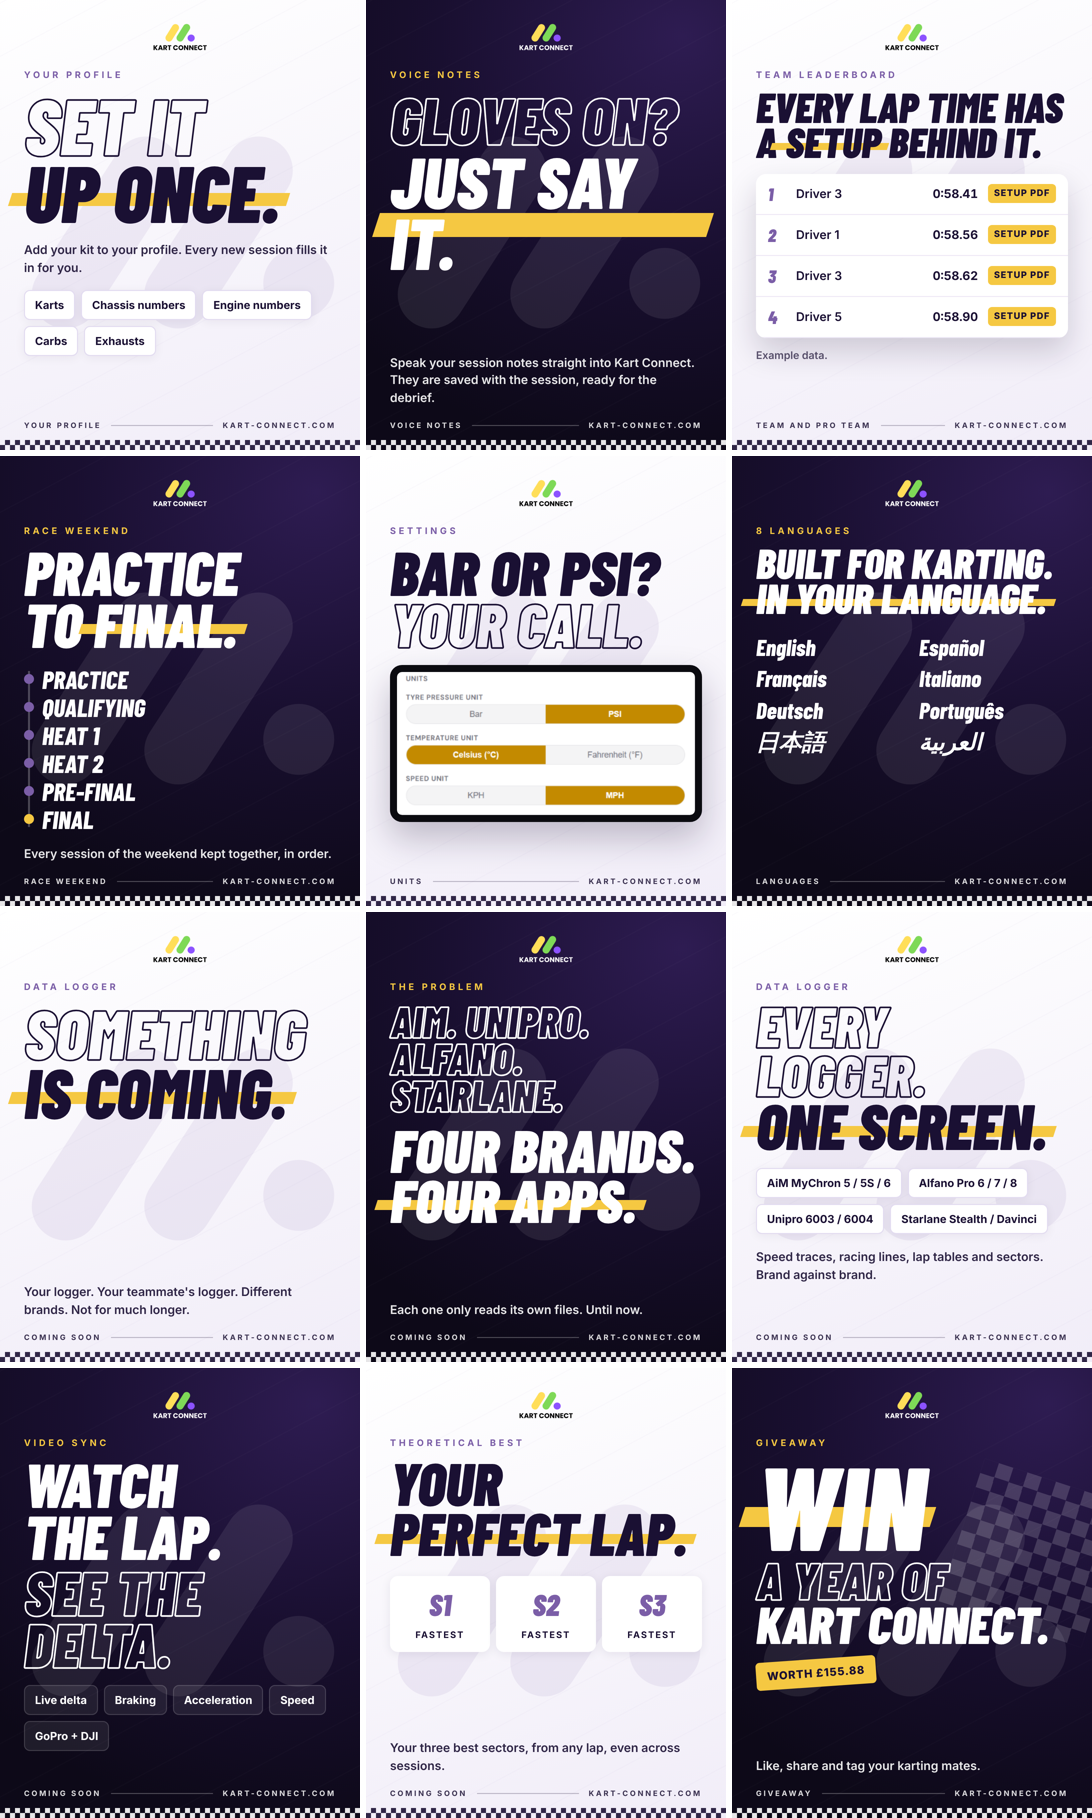
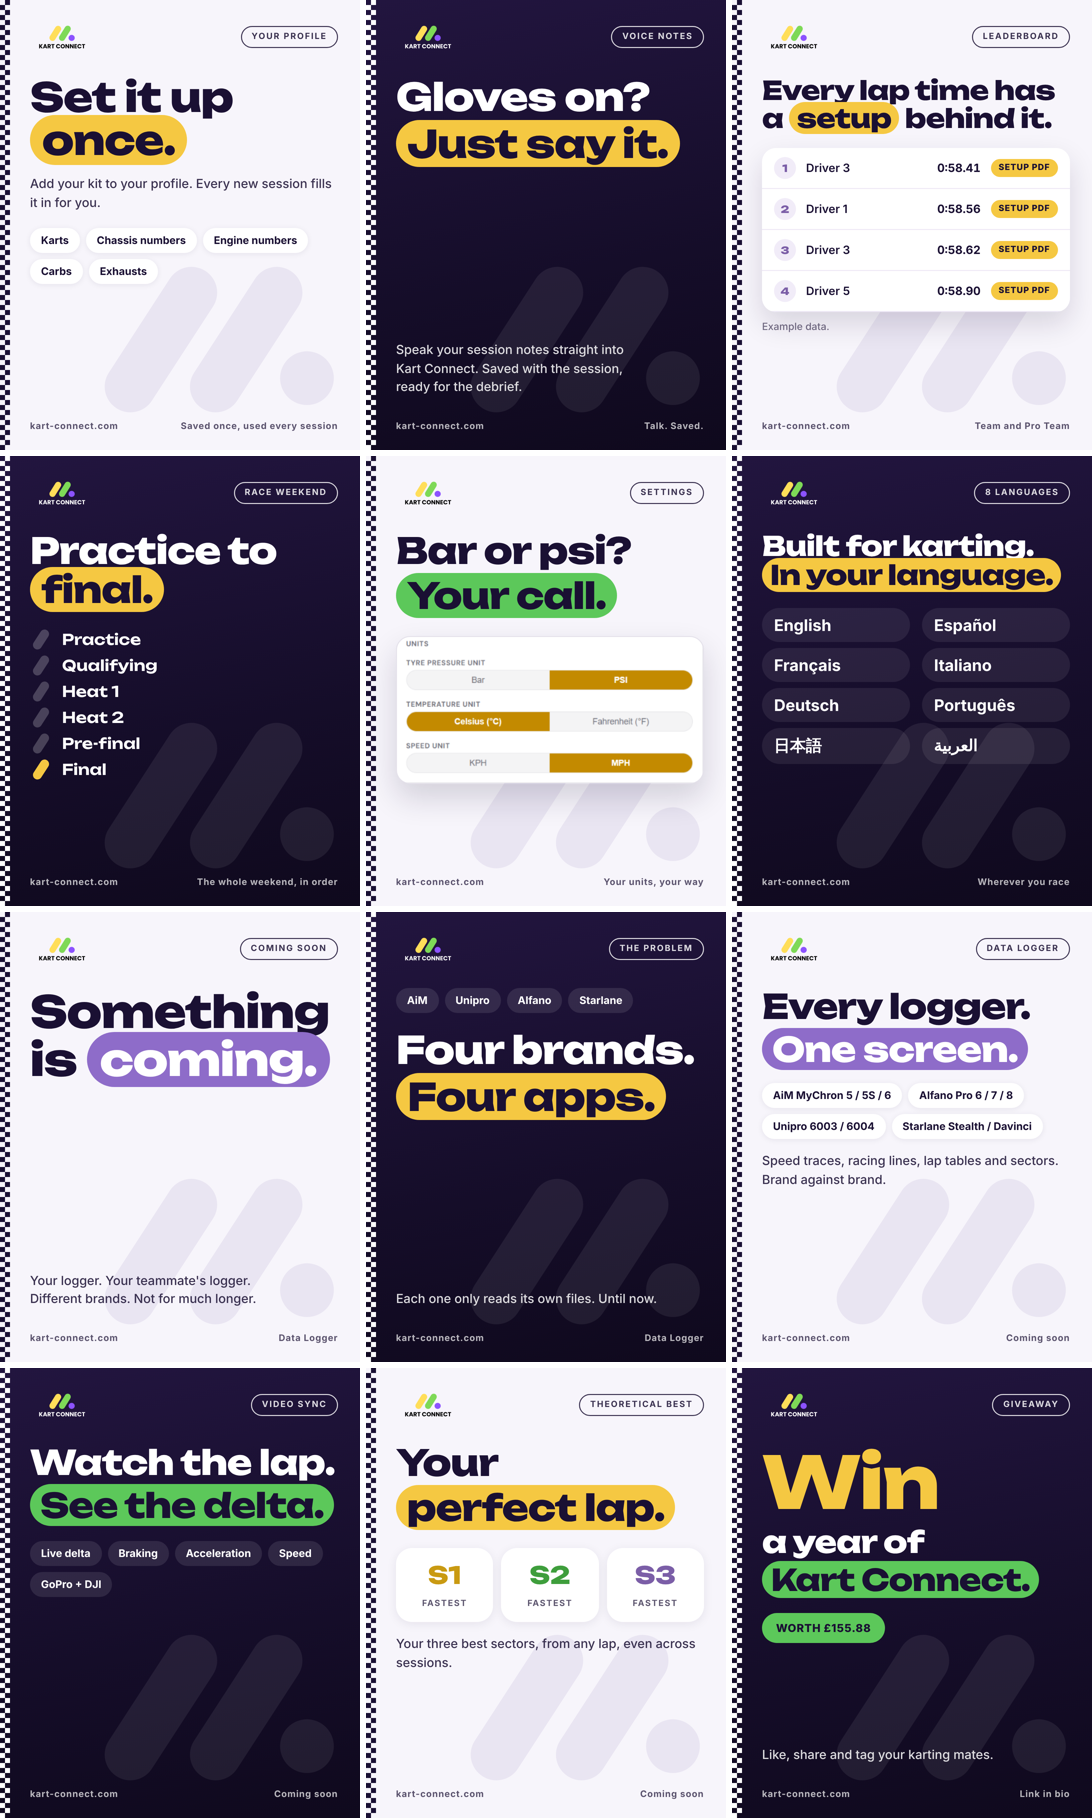
Redesign queued posts in Kart Connect's own style, distinct from the reference account
Claude-Session: https://claude.ai/code/session_01DzacDsEsqVP5UHhCT4aK5m

Changed region(s): [[0.0, 0.0, 1.0, 1.0], [0.2179, 0.0, 0.2802, 0.0308], [0.2491, 0.9241, 0.2802, 0.9549]]

diff --git a/marketing/social/concepts/pit-board/gen3.py b/marketing/social/concepts/pit-board/gen3.py
@@ -1,0 +1,134 @@
+"""Kart Connect's own single-image style ("Pill Lane"), replacing the Motorsport-Connector-like look.
+Kept from the owner's brief: faded full logo mark, chequered flag motif, dark/light alternation, punchy headlines.
+Changed: wide upright Unbounded type (not condensed italic), pill-shaped highlights taken from the logo's
+rounded stripes (not a stripe behind the word), logo top-left with a pill tag (not centred), mark bottom-right,
+no outline/solid word pairs. Writes queue3.html, one <section class="s"> per post."""
+import json, os
+HERE = os.path.dirname(os.path.abspath(__file__))
+
+MARK = ('<svg class="wm" viewBox="140 10 214 128" aria-hidden="true"><g fill="currentColor">'
+        '<rect x="-70" y="-22" width="140" height="44" rx="22" transform="translate(199,73) rotate(-57)"/>'
+        '<rect x="-70" y="-22" width="140" height="44" rx="22" transform="translate(272,73) rotate(-57)"/>'
+        '<circle cx="324" cy="106" r="23"/></g></svg>')
+
+CSS = r'''
+@font-face{font-family:'Unbounded';font-style:normal;font-weight:200 900;src:url('fonts/Unbounded-800.woff2') format('woff2');}
+* { box-sizing: border-box; margin: 0; padding: 0; }
+body { background: #bbb; padding: 20px; display: flex; flex-wrap: wrap; gap: 20px; font-family: 'Inter', Arial, sans-serif; }
+.s { width: 360px; height: 450px; position: relative; overflow: hidden; --y: #F5C842; --g: #5CC85A; --p: #8E6CC9; --ink: #1A1033; }
+.s.dark  { color: #fff; background: linear-gradient(170deg, #22153F 0%, #150D29 60%, #0F091D 100%); }
+.s.light { color: var(--ink); background: #F7F5FB; }
+.wm { position: absolute; width: 250px; right: 18px; bottom: 34px; opacity: .07; color: currentColor; }
+.s.light .wm { color: #7B5EA7; opacity: .1; }
+/* chequered flag: a slim strip down the left edge */
+.chk { position: absolute; top: 0; bottom: 0; left: 0; width: 10px;
+  background: repeating-conic-gradient(currentColor 0 25%, transparent 0 50%) 0 0 / 10px 10px; }
+.s.dark .chk { color: #fff; } .s.light .chk { color: var(--ink); }
+.bar { position: absolute; top: 24px; left: 30px; right: 22px; display: flex; justify-content: space-between; align-items: center; }
+.bar img { height: 26px; }
+.tag { font-size: 8.5px; font-weight: 700; letter-spacing: .14em; text-transform: uppercase; padding: 5px 10px; border-radius: 999px;
+       border: 1px solid currentColor; opacity: .85; }
+.in { position: absolute; top: 76px; left: 30px; right: 22px; bottom: 46px; display: flex; flex-direction: column; }
+.foot { position: absolute; left: 30px; right: 22px; bottom: 18px; display: flex; justify-content: space-between;
+        font-size: 9px; font-weight: 700; letter-spacing: .06em; opacity: .7; }
+.h { font-family: 'Unbounded', 'Inter', sans-serif; font-weight: 800; line-height: 1.08; letter-spacing: -.02em; }
+.cap { background: var(--y); color: #1A1033; border-radius: 999px; padding: 0 .3em; -webkit-box-decoration-break: clone; box-decoration-break: clone; }
+.cap.g { background: var(--g); } .cap.p { background: var(--p); color: #fff; }
+.sub { font-size: 12.5px; font-weight: 500; line-height: 1.5; opacity: .85; }
+.chips { display: flex; flex-wrap: wrap; gap: 6px; }
+.chip2 { font-size: 10.5px; font-weight: 700; padding: 6px 11px; border-radius: 999px; background: rgba(255,255,255,.1); }
+.s.light .chip2 { background: #fff; box-shadow: 0 1px 6px rgba(26,16,51,.08); }
+.shot { border-radius: 14px; overflow: hidden; border: 1px solid rgba(26,16,51,.08); box-shadow: 0 14px 30px rgba(26,16,51,.16); }
+.s.dark .shot { border-color: rgba(255,255,255,.12); box-shadow: 0 16px 34px rgba(0,0,0,.45); }
+.shot img { display: block; width: 100%; }
+.lb { border-radius: 14px; overflow: hidden; box-shadow: 0 12px 28px rgba(26,16,51,.14); }
+.lbr { display: flex; align-items: center; gap: 10px; padding: 9px 12px; font-size: 11.5px; font-weight: 600; background: #fff; color: #1A1033; border-bottom: 1px solid #EEE9F6; }
+.lbr .p { width: 22px; height: 22px; border-radius: 50%; background: #F1ECF8; display: flex; align-items: center; justify-content: center;
+          font-family: 'Unbounded'; font-weight: 800; font-size: 10px; color: #7B5EA7; }
+.lbr .t { margin-left: auto; font-variant-numeric: tabular-nums; font-weight: 700; }
+.lbr .pdf { font-size: 8.5px; font-weight: 800; letter-spacing: .06em; background: var(--y); padding: 4px 8px; border-radius: 999px; }
+.steps { display: flex; flex-direction: column; gap: 7px; }
+.steps div { display: flex; align-items: center; gap: 10px; font-family: 'Unbounded'; font-weight: 600; font-size: 15px; }
+.steps div::before { content: ""; width: 22px; height: 9px; border-radius: 999px; background: rgba(255,255,255,.22); transform: rotate(-57deg); }
+.steps div.f::before { background: var(--y); }
+.lang { display: grid; grid-template-columns: 1fr 1fr; gap: 6px 12px; }
+.lang div { font-weight: 700; font-size: 16px; padding: 7px 12px; border-radius: 999px; background: rgba(255,255,255,.08); }
+.sec { display: flex; gap: 8px; }
+.sec div { flex: 1; border-radius: 16px; padding: 12px 6px; text-align: center; background: #fff; box-shadow: 0 2px 10px rgba(26,16,51,.08); }
+.sec b { display: block; font-family: 'Unbounded'; font-weight: 800; font-size: 24px; }
+.sec div:nth-child(1) b { color: #C99A12; } .sec div:nth-child(2) b { color: #3E9E3C; } .sec div:nth-child(3) b { color: #7B5EA7; }
+.sec span { font-size: 8.5px; font-weight: 700; letter-spacing: .12em; text-transform: uppercase; opacity: .7; }
+.sticker { display: inline-block; background: var(--g); color: #1A1033; font-weight: 800; font-size: 11px; letter-spacing: .04em;
+           text-transform: uppercase; padding: 8px 14px; border-radius: 999px; }
+'''
+
+
+def tile(theme, tag, inner, foot):
+    logo = 'logo-white.png' if theme == 'dark' else 'logo.png'
+    return (f'<section class="s {theme}">{MARK}<div class="chk"></div>'
+            f'<div class="bar"><img src="{logo}" alt="Kart Connect"><span class="tag">{tag}</span></div>'
+            f'<div class="in">{inner}</div>'
+            f'<div class="foot"><span>kart-connect.com</span><span>{foot}</span></div></section>')
+
+
+Q = json.load(open(os.path.join(HERE, 'pack', 'queue.json')))
+cap = {p['slug']: p for p in Q}
+
+rows = ''.join(f'<div class="lbr"><span class="p">{i}</span><span>{n}</span><span class="t">{t}</span><span class="pdf">SETUP PDF</span></div>'
+               for i, n, t in [(1, 'Driver 3', '0:58.41'), (2, 'Driver 1', '0:58.56'), (3, 'Driver 3', '0:58.62'), (4, 'Driver 5', '0:58.90')])
+
+POSTS = [
+ ('profile-once', 'light', 'Your profile',
+  '<div class="h" style="font-size:40px;">Set it up <span class="cap">once.</span></div>'
+  '<p class="sub" style="margin-top:14px;">Add your kit to your profile. Every new session fills it in for you.</p>'
+  '<div class="chips" style="margin-top:14px;"><span class="chip2">Karts</span><span class="chip2">Chassis numbers</span>'
+  '<span class="chip2">Engine numbers</span><span class="chip2">Carbs</span><span class="chip2">Exhausts</span></div>', 'Saved once, used every session'),
+ ('voice-notes', 'dark', 'Voice notes',
+  '<div class="h" style="font-size:38px;">Gloves on?</div><div class="h" style="font-size:38px;margin-top:6px;"><span class="cap">Just say it.</span></div>'
+  '<p class="sub" style="margin-top:auto;margin-bottom:6px;max-width:250px;">Speak your session notes straight into Kart Connect. Saved with the session, ready for the debrief.</p>', 'Talk. Saved.'),
+ ('leaderboard', 'light', 'Leaderboard',
+  '<div class="h" style="font-size:26px;">Every lap time has a <span class="cap">setup</span> behind it.</div>'
+  f'<div class="lb" style="margin-top:16px;">{rows}</div><p class="sub" style="margin-top:8px;font-size:10px;opacity:.6;">Example data.</p>', 'Team and Pro Team'),
+ ('race-weekend', 'dark', 'Race weekend',
+  '<div class="h" style="font-size:36px;">Practice to <span class="cap">final.</span></div>'
+  '<div class="steps" style="margin-top:20px;"><div>Practice</div><div>Qualifying</div><div>Heat 1</div><div>Heat 2</div><div>Pre-final</div><div class="f">Final</div></div>',
+  'The whole weekend, in order'),
+ ('units', 'light', 'Settings',
+  '<div class="h" style="font-size:36px;">Bar or psi?</div><div class="h" style="font-size:36px;margin-top:6px;"><span class="cap g">Your call.</span></div>'
+  '<div class="shot" style="margin-top:20px;"><img src="units.png" alt=""></div>', 'Your units, your way'),
+ ('languages', 'dark', '8 languages',
+  '<div class="h" style="font-size:27px;">Built for karting. <span class="cap">In your language.</span></div>'
+  '<div class="lang" style="margin-top:18px;"><div>English</div><div>Español</div><div>Français</div><div>Italiano</div>'
+  '<div>Deutsch</div><div>Português</div><div>日本語</div><div>العربية</div></div>', 'Wherever you race'),
+ ('launch-teaser', 'light', 'Coming soon',
+  '<div class="h" style="font-size:44px;">Something is <span class="cap p">coming.</span></div>'
+  '<p class="sub" style="margin-top:auto;margin-bottom:6px;max-width:240px;">Your logger. Your teammate\'s logger. Different brands. Not for much longer.</p>', 'Data Logger'),
+ ('launch-problem', 'dark', 'The problem',
+  '<div class="chips"><span class="chip2">AiM</span><span class="chip2">Unipro</span><span class="chip2">Alfano</span><span class="chip2">Starlane</span></div>'
+  '<div class="h" style="font-size:38px;margin-top:16px;">Four brands.</div><div class="h" style="font-size:38px;margin-top:6px;"><span class="cap">Four apps.</span></div>'
+  '<p class="sub" style="margin-top:auto;margin-bottom:6px;">Each one only reads its own files. Until now.</p>', 'Data Logger'),
+ ('launch-reveal', 'light', 'Data Logger',
+  '<div class="h" style="font-size:34px;">Every logger.</div><div class="h" style="font-size:34px;margin-top:6px;"><span class="cap p">One screen.</span></div>'
+  '<div class="chips" style="margin-top:16px;"><span class="chip2">AiM MyChron 5 / 5S / 6</span><span class="chip2">Alfano Pro 6 / 7 / 8</span>'
+  '<span class="chip2">Unipro 6003 / 6004</span><span class="chip2">Starlane Stealth / Davinci</span></div>'
+  '<p class="sub" style="margin-top:14px;">Speed traces, racing lines, lap tables and sectors. Brand against brand.</p>', 'Coming soon'),
+ ('launch-video', 'dark', 'Video sync',
+  '<div class="h" style="font-size:34px;">Watch the lap.</div><div class="h" style="font-size:34px;margin-top:6px;"><span class="cap g">See the delta.</span></div>'
+  '<div class="chips" style="margin-top:18px;"><span class="chip2">Live delta</span><span class="chip2">Braking</span>'
+  '<span class="chip2">Acceleration</span><span class="chip2">Speed</span><span class="chip2">GoPro + DJI</span></div>', 'Coming soon'),
+ ('launch-perfect-lap', 'light', 'Theoretical best',
+  '<div class="h" style="font-size:36px;">Your</div><div class="h" style="font-size:36px;margin-top:6px;white-space:nowrap;"><span class="cap">perfect lap.</span></div>'
+  '<div class="sec" style="margin-top:20px;"><div><b>S1</b><span>Fastest</span></div><div><b>S2</b><span>Fastest</span></div><div><b>S3</b><span>Fastest</span></div></div>'
+  '<p class="sub" style="margin-top:14px;">Your three best sectors, from any lap, even across sessions.</p>', 'Coming soon'),
+ ('launch-giveaway', 'dark', 'Giveaway',
+  '<div class="h" style="font-size:72px;color:#F5C842;">Win</div>'
+  '<div class="h" style="font-size:30px;margin-top:4px;">a year of</div><div class="h" style="font-size:30px;margin-top:6px;white-space:nowrap;"><span class="cap g">Kart Connect.</span></div>'
+  '<div style="margin-top:16px;"><span class="sticker">Worth £155.88</span></div>'
+  '<p class="sub" style="margin-top:auto;margin-bottom:6px;">Like, share and tag your karting mates.</p>', 'Link in bio'),
+]
+
+html = ('<!doctype html><html lang="en-GB"><head><meta charset="utf-8"><title>Queue v3</title>'
+        f'<style>{CSS}</style></head><body>' + ''.join(tile(t, tag, inner, foot) for _, t, tag, inner, foot in POSTS) + '</body></html>')
+open(os.path.join(HERE, 'queue3.html'), 'w').write(html)
+assert [s for s, *_ in POSTS] == [p['slug'] for p in Q]
+print(len(POSTS), 'posts')
